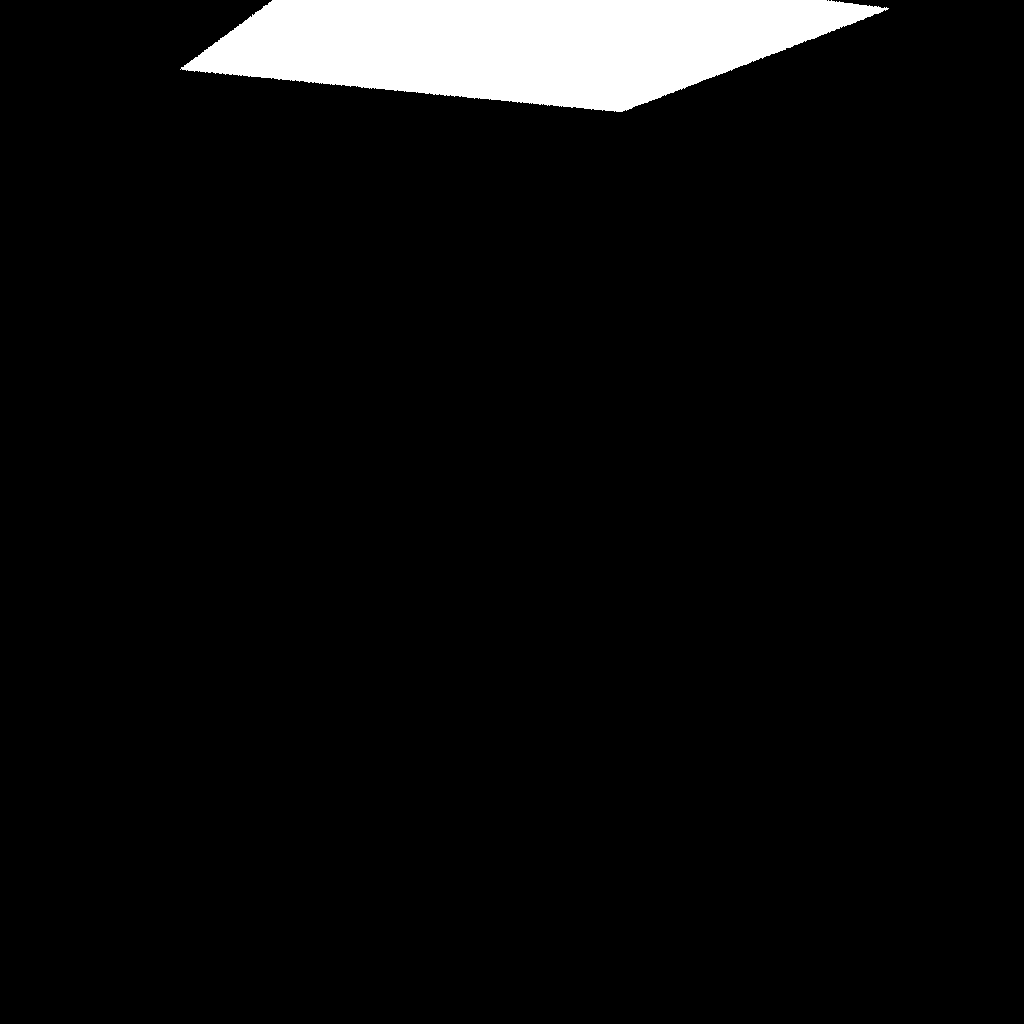
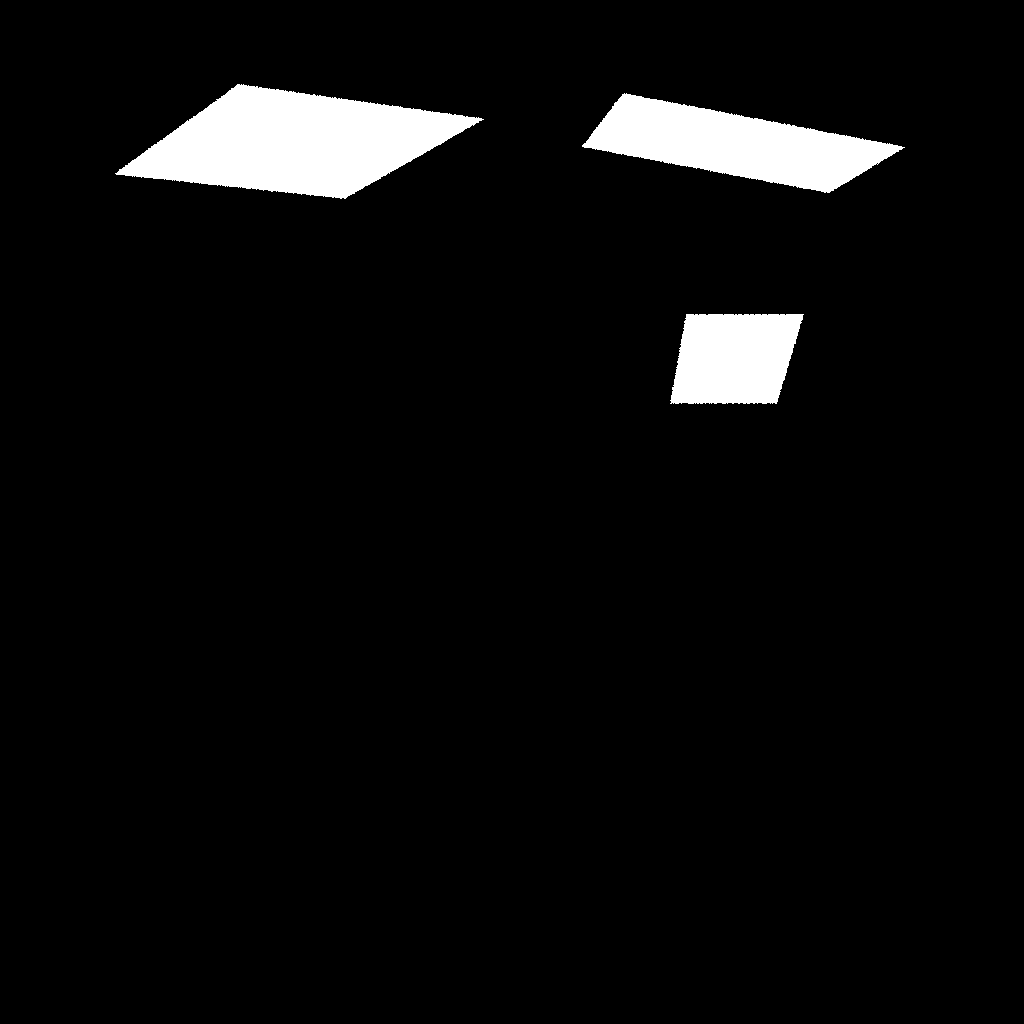
grayscale buggy image but shadows are represented

Changed region(s): [[0.125, 0.0, 0.875, 0.2188], [0.6562, 0.2812, 0.7812, 0.4062]]

diff --git a/render.cpp b/render.cpp
@@ -11,16 +11,44 @@ long long Integrator::render()
     auto startTime = std::chrono::high_resolution_clock::now();
     for (int x = 0; x < this->scene.imageResolution.x; x++) {
         for (int y = 0; y < this->scene.imageResolution.y; y++) {
+
+            // Vector3f result = Vector3f(0, 0, 0);
+            // for(int sampling_iteration = 0; sampling_iteration < spp; sampling_iteration++){
+            //     // Phele ham ye dekh rahen hain ki camera wali ray kahin intersect hui?
+            //     Ray cameraRay = this->scene.camera.generateRay(x, y);
+            //     Interaction si = this->scene.rayIntersect(cameraRay);
+            //     // Agar intersect hui to ham dekhenge ki kahan intersect hui.
+
+            //     if(si.didIntersect){
+            //         // wahan se ham light ko sample karenge aur ek ray banayenge
+            //         Vector3f radiance;
+            //         LightSample ls;
+
+            //         for(Light &light : this->scene.lights){
+            //             std::tie(radiance, ls) = light.sample(&si);
+            //             // aur dekhenge ki kisi light se intersect kiya ki nahi
+
+            //             // Iske liye, phele ham shadow ray banayenge
+            //             Ray shadowRay(si.p + 1e-3 * si.n, ls.wo);
+
+
+                    
+            //         }
+
+
+            //         // Agar light source se kiya, to sahi hai, tab ham shade kardenge equation (2) ke hisaab se.
+
+            //         // ye karke dekhta hun, isme shadow ray ki kahani nahi hai, I mean hai par waisi wali shadow ray nahi shayad
+            //     }
+            // }
+
+
+
             Vector3f result(0, 0, 0);
             for(int sampling_iteration = 0; sampling_iteration < spp; sampling_iteration++){
                 Ray cameraRay = this->scene.camera.generateRay(x, y);
                 Interaction si = this->scene.rayIntersect(cameraRay);
 
-                if(x == 500 && y == 1000){
-                    Interaction a = this->scene.rayEmitterIntersect(cameraRay);
-                    if(a.didIntersect)
-                    std::cout << "Intersected" << std::endl;
-                }
                 if (si.didIntersect) {
                     Vector3f radiance;
                     LightSample ls;
@@ -31,7 +59,9 @@ long long Integrator::render()
                         Interaction siShadow = this->scene.rayIntersect(shadowRay);
 
                         if (!siShadow.didIntersect || siShadow.t > ls.d) {
-                            result += si.bsdf->eval(&si, si.toLocal(ls.wo)) * radiance * std::abs(Dot(si.n, ls.wo)) + si.emissiveColor;
+                            if(this->scene.rayEmitterIntersect(shadowRay).didIntersect){
+                                result += si.bsdf->eval(&si, si.toLocal(ls.wo)) * radiance * std::abs(Dot(si.n, ls.wo)) + siShadow.emissiveColor;
+                            }
                         }
                     }
                 }
@@ -45,6 +75,7 @@ long long Integrator::render()
 }
 
 int spp;
+int sampling_method;
 
 int main(int argc, char **argv)
 {
@@ -56,6 +87,7 @@ int main(int argc, char **argv)
 
     Integrator rayTracer(scene);
     spp = atoi(argv[3]);
+    sampling_method = atoi(argv[4]);
     auto renderTime = rayTracer.render();
     
     std::cout << "Render Time: " << std::to_string(renderTime / 1000.f) << " ms" << std::endl;

diff --git a/surface.cpp b/surface.cpp
@@ -387,10 +387,27 @@ void Surface::intersectBVH(uint32_t nodeIdx, Ray& ray, Interaction& si)
                 si.bsdf = &this->bsdf;
 
                 // TODO: Obtain the ONB and store in interaction here
+                
+                Vector3f tangent, bitangent;
+                if (std::abs(normal.x) > std::abs(normal.y)) {
+                    tangent = Normalize(Vector3f(-normal.z, 0.0f, normal.x));
+                } else {
+                    tangent = Normalize(Vector3f(0.0f, normal.z, -normal.y));
+                }
+                bitangent = Cross(normal, tangent);
+
+                // Here is the tangent
+                si.a = tangent;
+
+                // Here is the bi-tangent
+                si.a = bitangent;
+                
+                // Here is the normal
+                si.c = normal;
 
                 // Set the view direction in local coordinates
                 // TODO: Uncomment this after implementing ONB
-                // si.wi = si.toLocal(-ray.d);
+                si.wi = si.toLocal(-ray.d);
             }
         }
     }

diff --git a/light.cpp b/light.cpp
@@ -44,6 +44,16 @@ std::pair<Vector3f, LightSample> Light::sample(Interaction *si) {
         case LightType::AREA_LIGHT:
             // TODO: Implement this
             
+            radiance = this->radiance;
+            Vector2f u = Vector2f(next_float(), next_float());
+            
+            float theta = u[0] * M_PI;
+            float phi   = (u[1] * M_PI * 2) - M_PI;
+
+            ls.wo = Normalize(Vector3f(std::sin(theta) * std::cos(phi), std::sin(theta) * std::sin(phi), std::cos(theta)));
+
+            ls.d = ls.wo.Length();
+
             break;
     }
     return { radiance, ls };
@@ -54,7 +64,7 @@ Interaction Light::intersectLight(Ray *ray) {
     memset(&si, 0, sizeof(si));
 
     if (type == LightType::AREA_LIGHT) {
-        // TODO: Implement this
+        // DONE: Implement this
 
         // First check ray plane intersection
         float dDotN = Dot(ray->d, this->normal);

diff --git a/headers/interaction.h b/headers/interaction.h
@@ -26,12 +26,12 @@ struct Interaction {
     bool didIntersect = false;
 
     Vector3f toWorld(Vector3f w) {
-        // TODO: Implement this
-        return Vector3f(0, 0, 0);
+        // DONE?: Implement this
+        return w.x * a + w.y * b + w.z * c;
     }
 
     Vector3f toLocal(Vector3f w) {
-        // TODO: Implement this
-        return Vector3f(0, 0, 0);
+        // DONE?: Implement this
+        return Vector3f(Dot(a, w), Dot(b, w), Dot(c, w));
     }
 };

diff --git a/headers/common.h b/headers/common.h
@@ -17,6 +17,7 @@
 #define M_PI 3.14159263f
 
 extern int spp;
+extern int sampling_method;
 
 struct Ray {
     Vector3f o, d;
